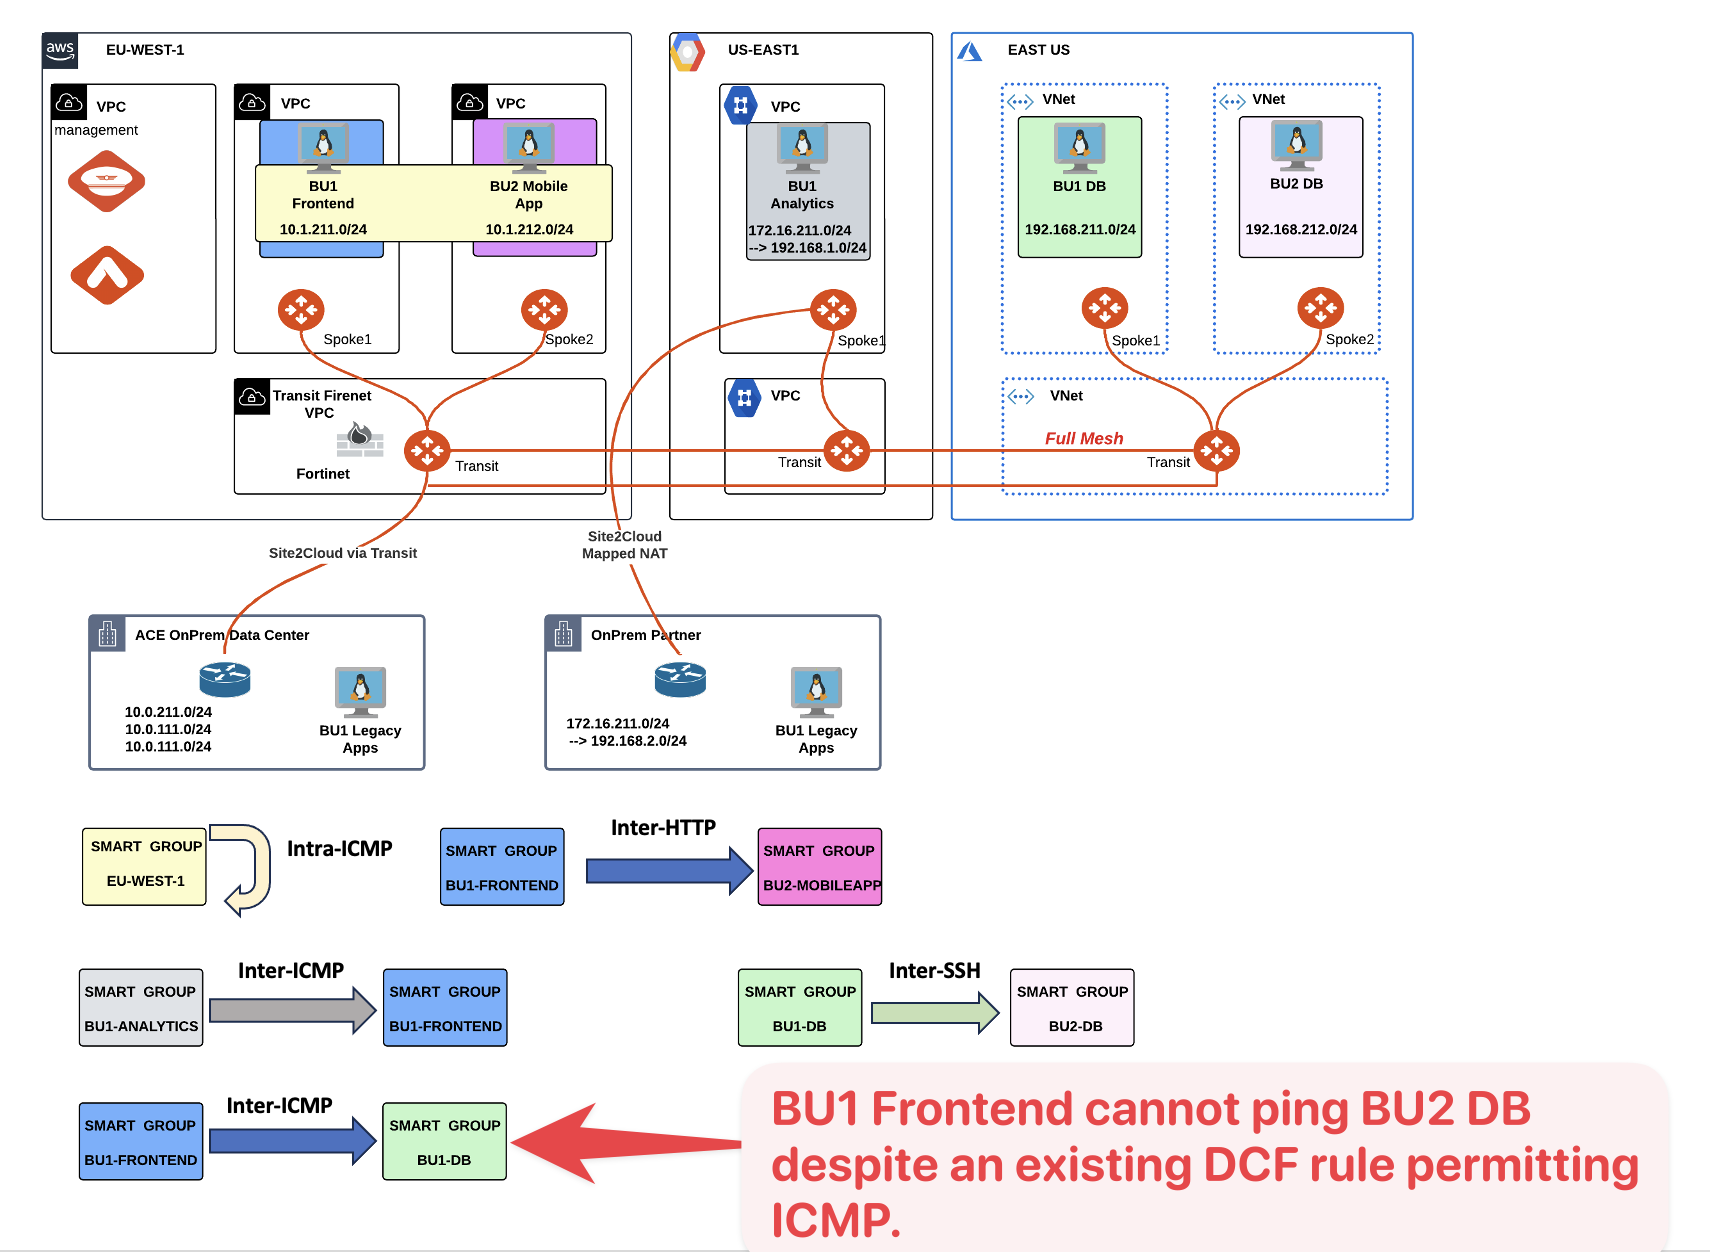
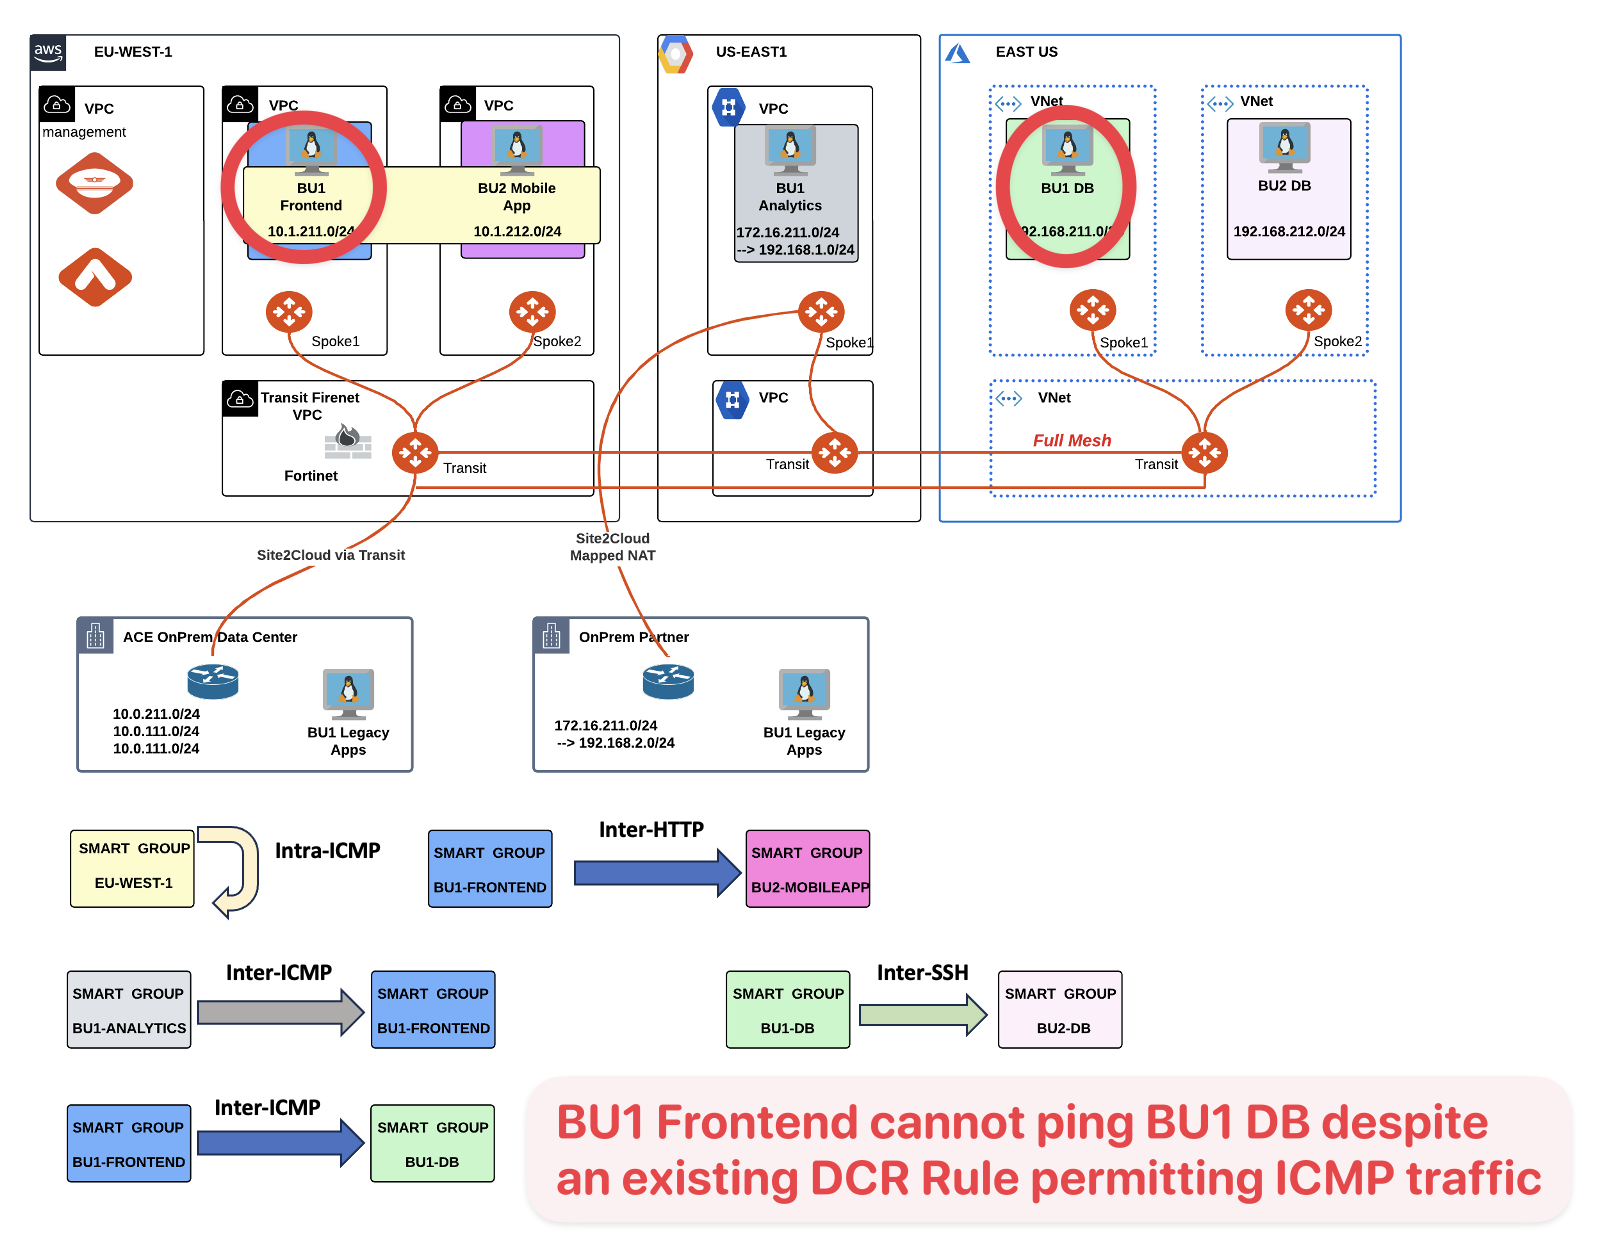
update for ops

Changed region(s): [[0.0, 0.0, 0.8438, 0.625], [0.0312, 0.6562, 0.6875, 0.8438], [0.0312, 0.875, 0.9688, 1.0]]

diff --git a/ace_ops/docs/lab8.md b/ace_ops/docs/lab8.md
@@ -534,7 +534,7 @@ Open the Gatus dashboard for **BU1 DB** and inspect the connectivity to **BU2 DB
 height: 450px
 align: center
 ---
-BU2 DB
+BU1 DB
 ```
 
 #### 2.2.15 Verify connectivity Using the SSH client <span style='color:#33ECFF'>(BONUS)</span></summary>
